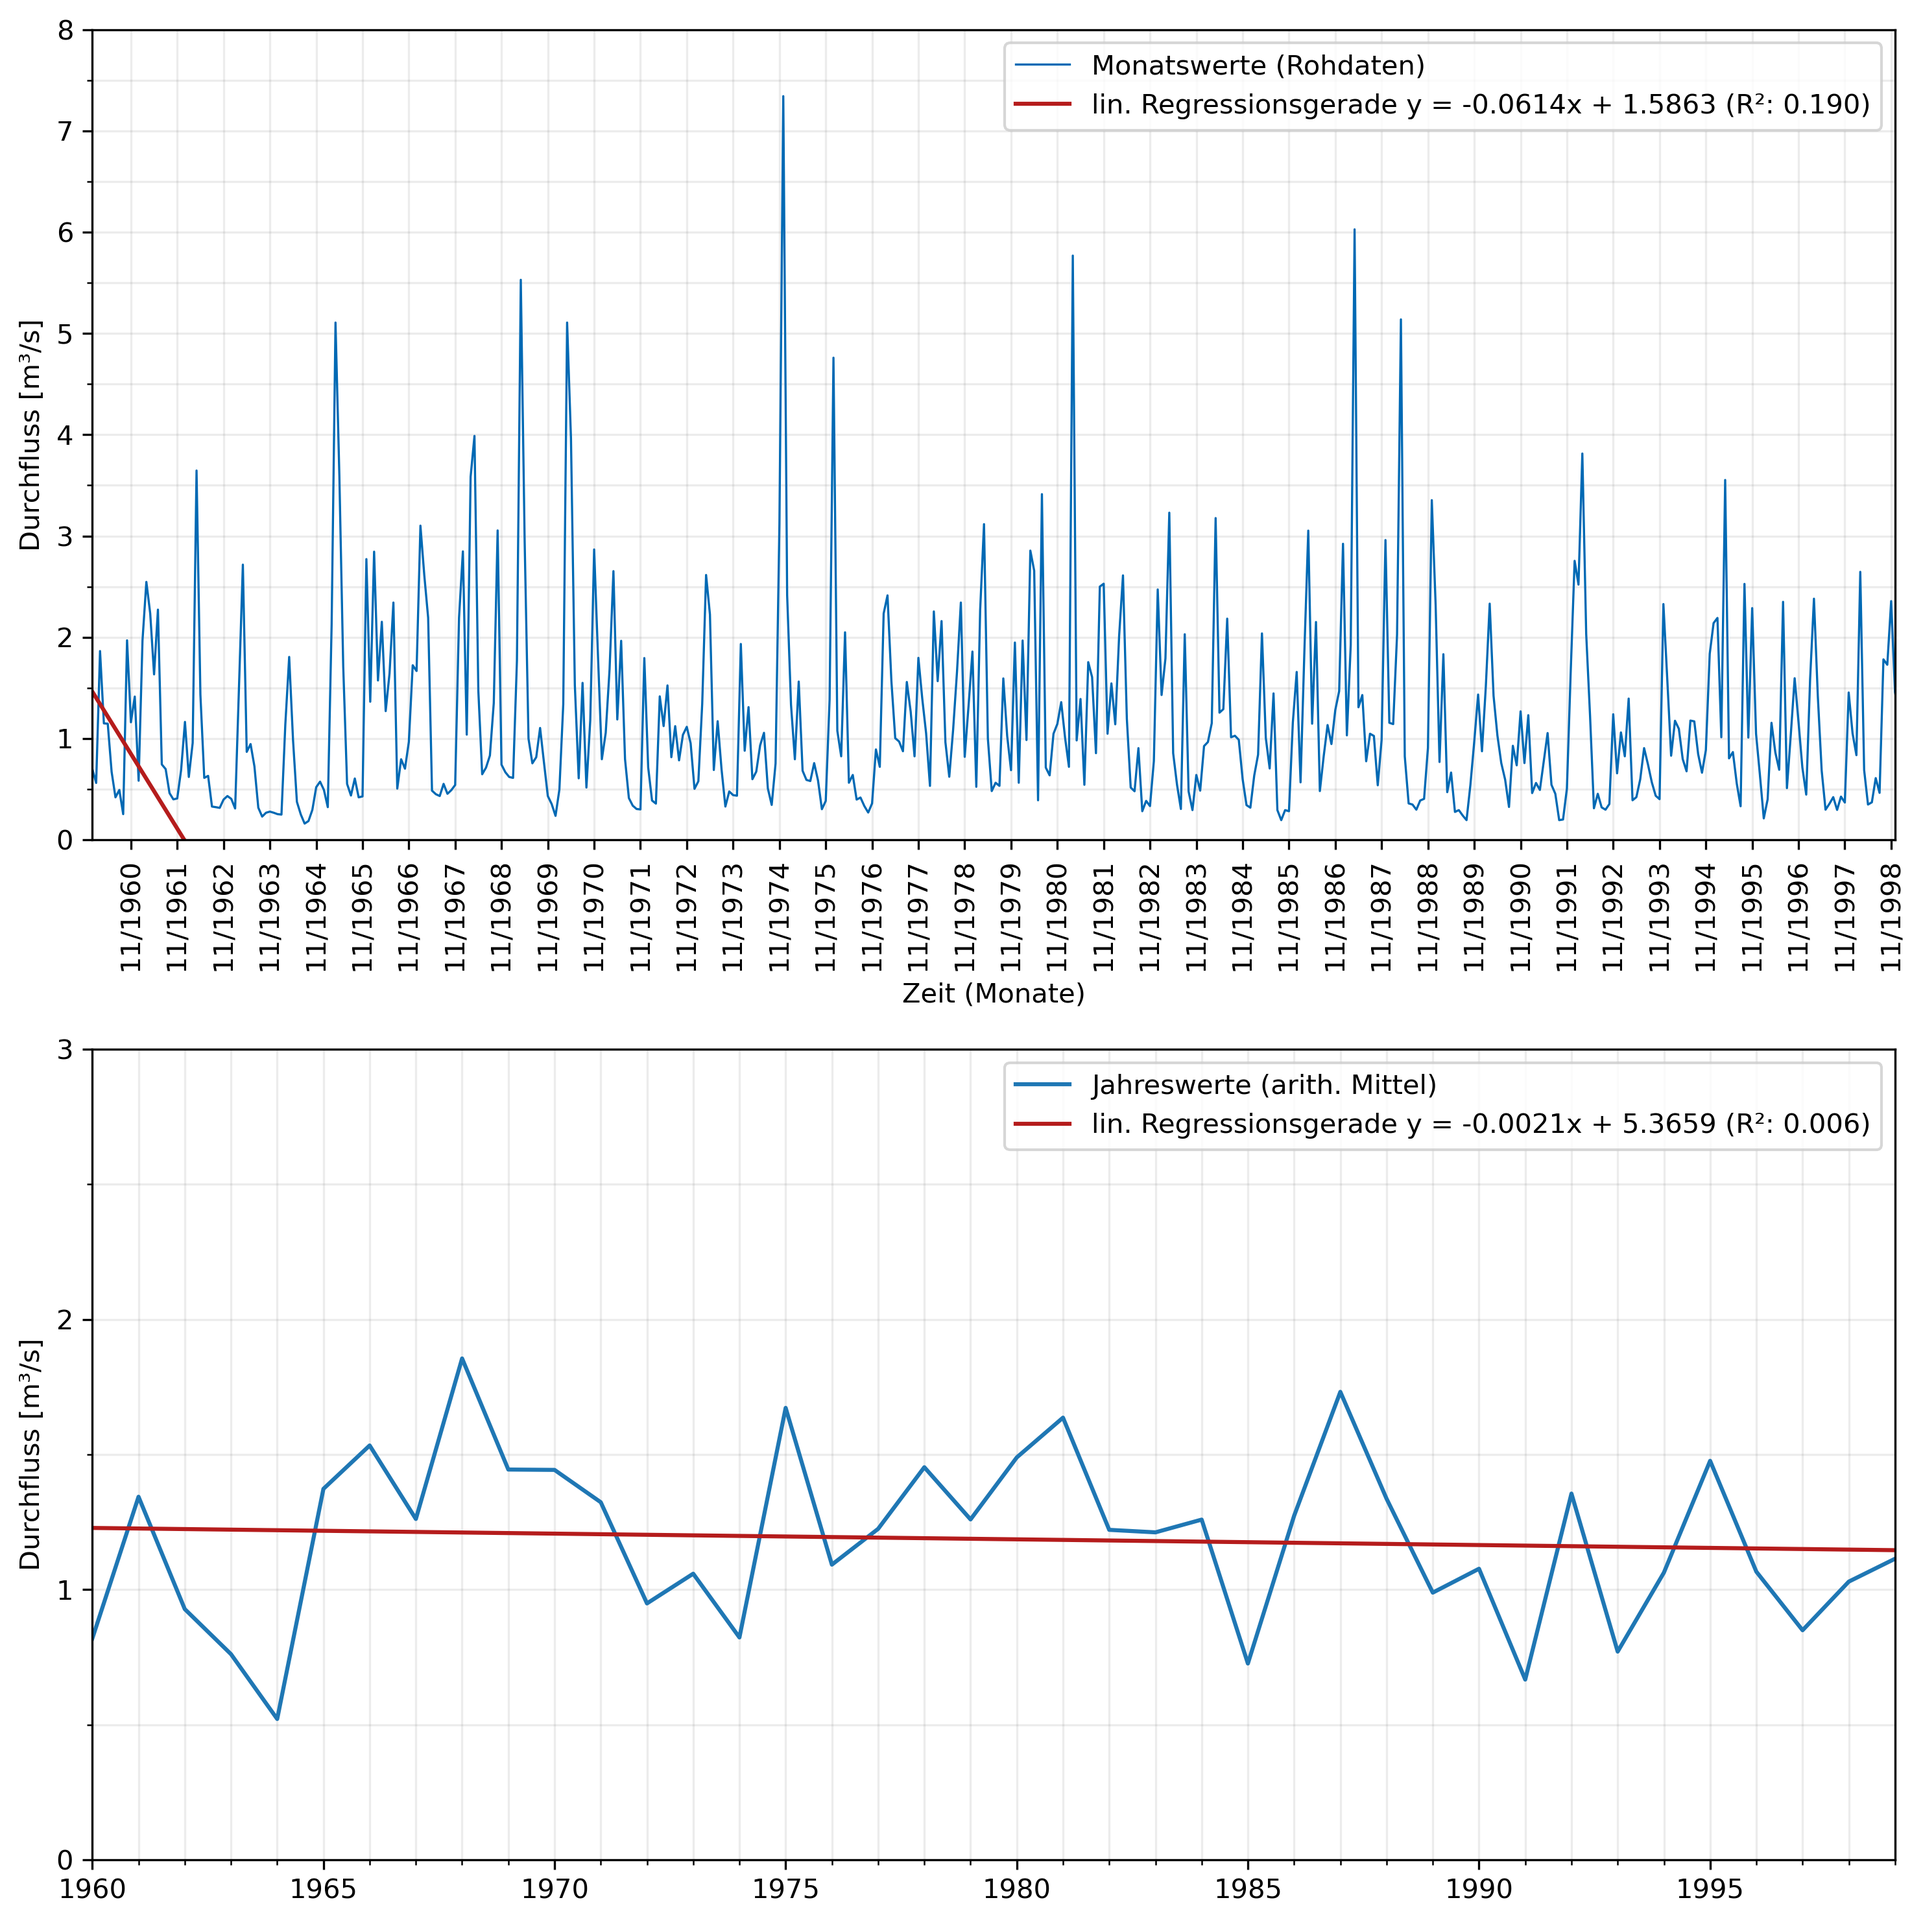
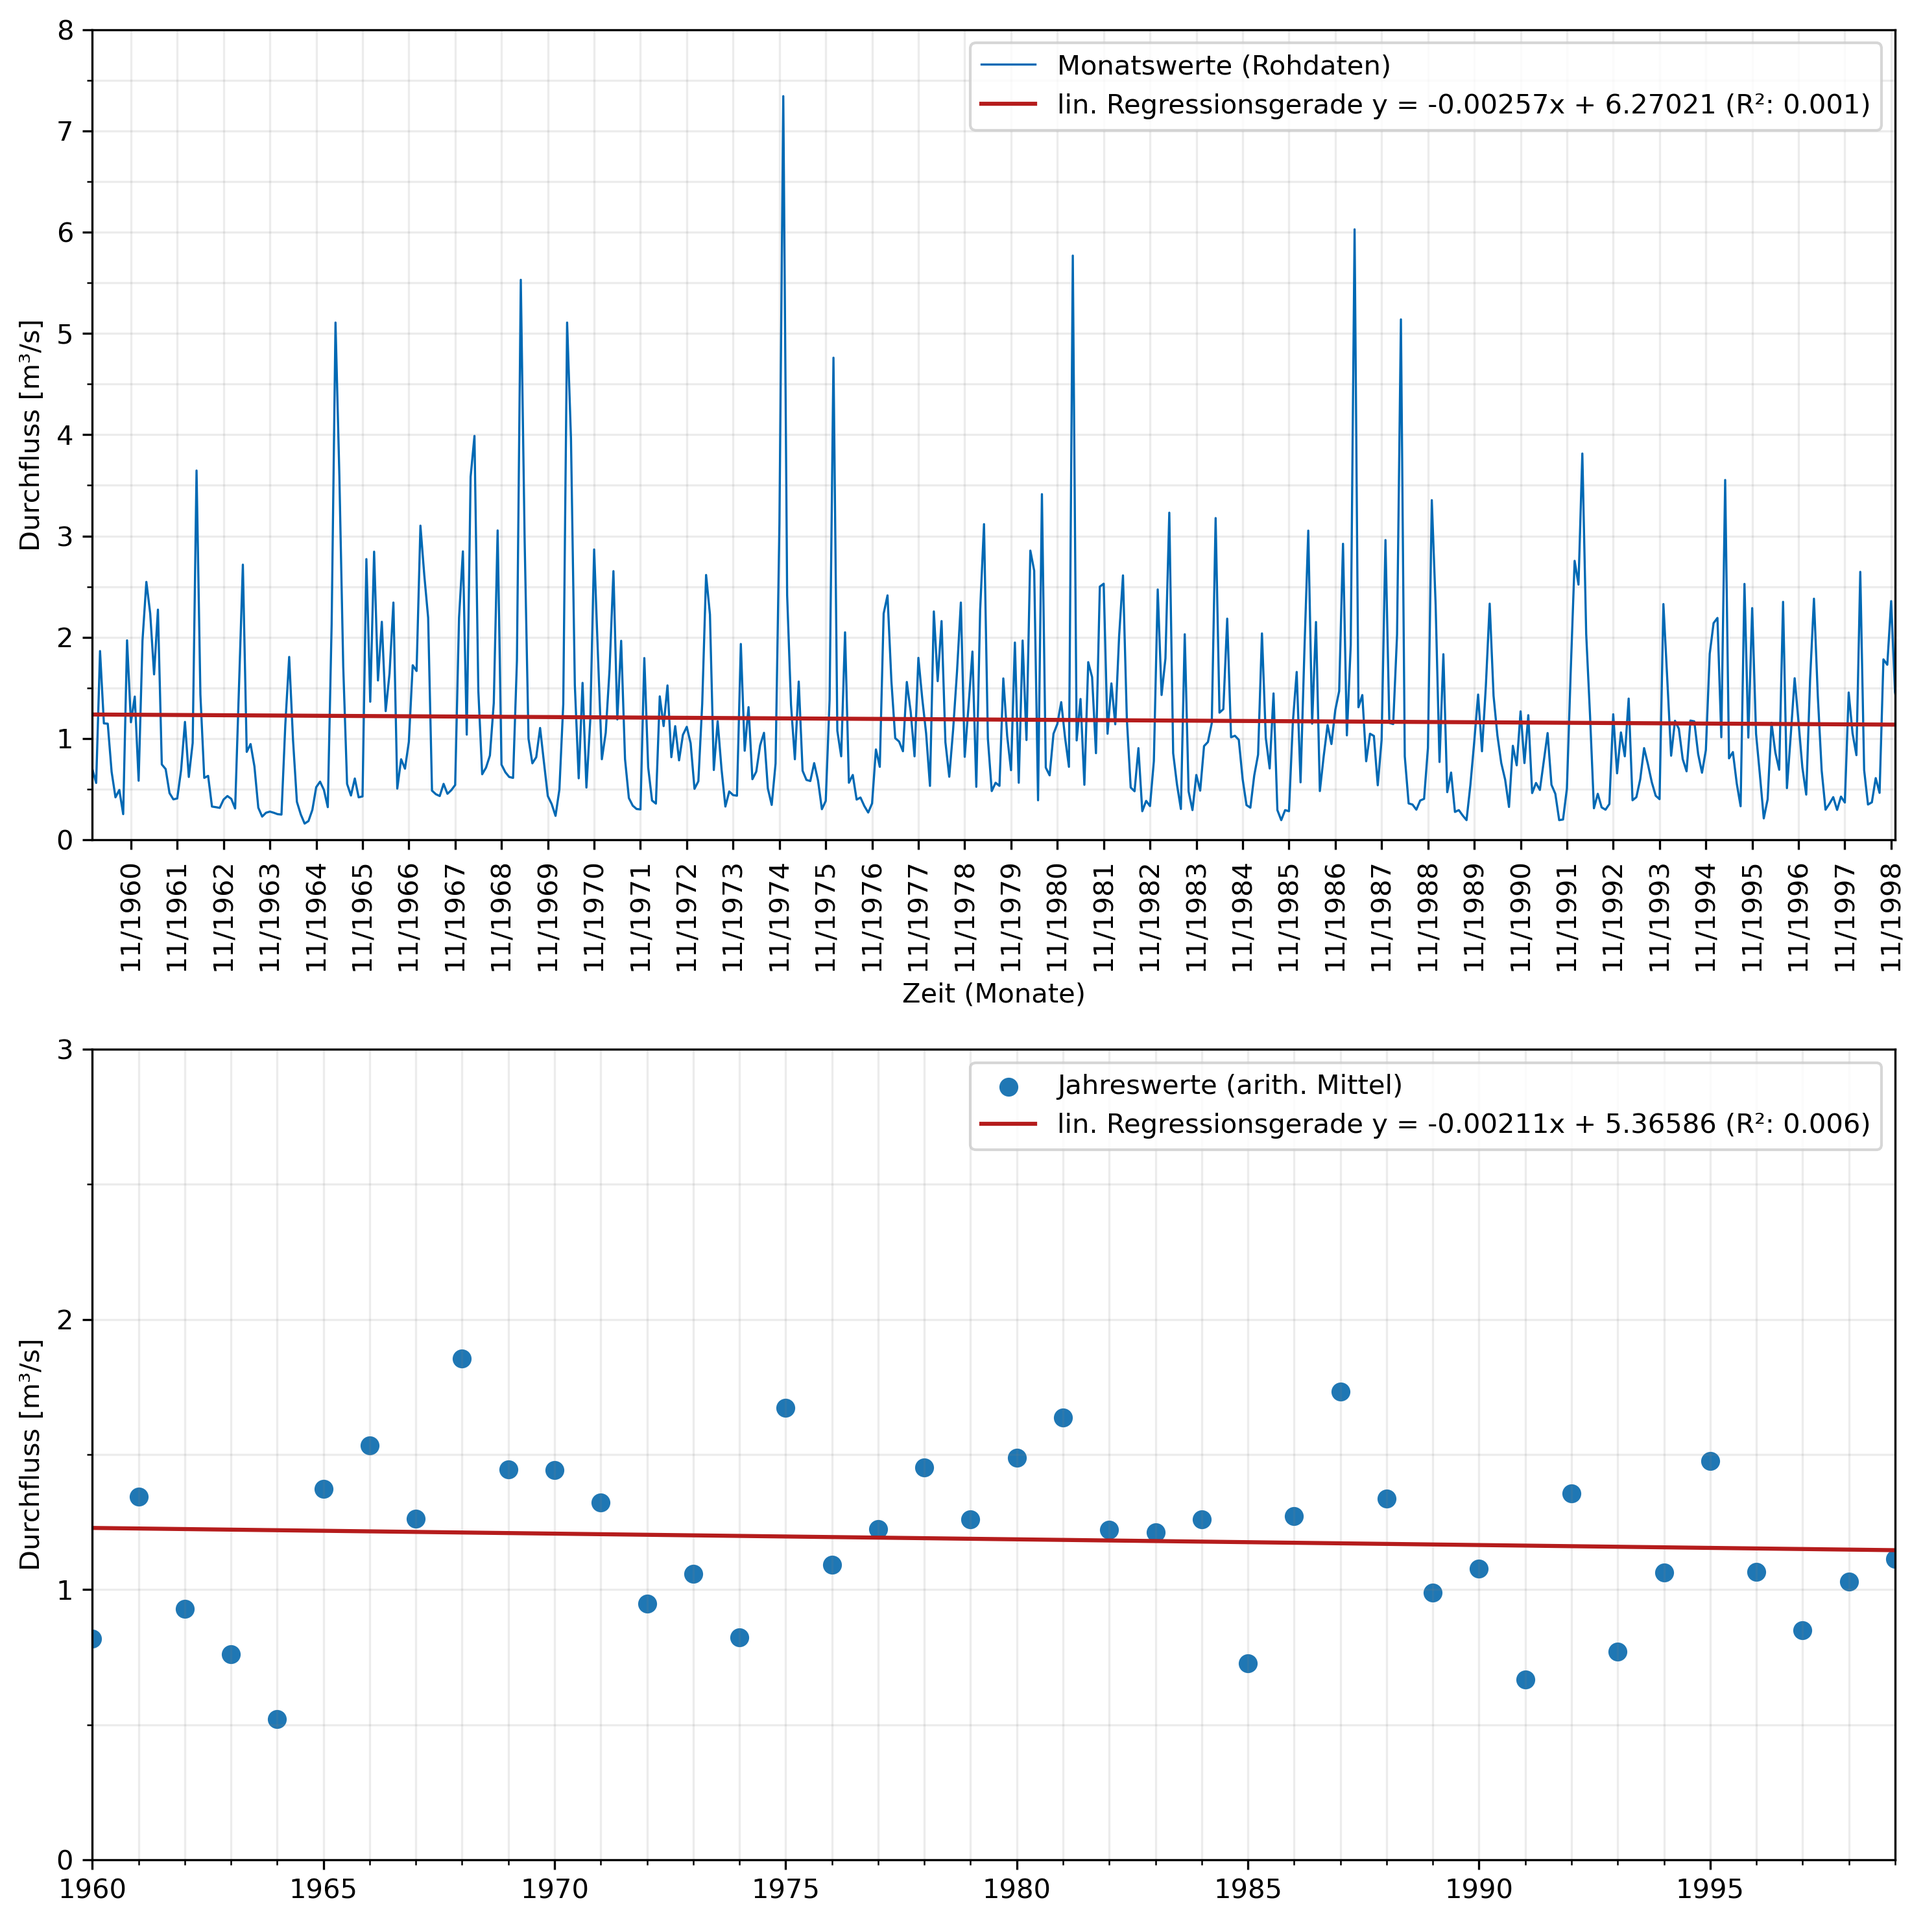
✅ issue2

diff --git a/code/utils/trend_analysis.py b/code/utils/trend_analysis.py
@@ -1,3 +1,4 @@
+import matplotlib.pyplot as plt
 import pandas as pd
 import numpy as np
 import scipy
@@ -6,41 +7,26 @@ from collections import namedtuple
 from utils.binned_stats import mean
 from utils.primary_stats import hyd_years
 
+def __preprocess(df: pd.DataFrame, which: str):
+    if which == "monthly":
+        x = df["Durchfluss_m3s"].tolist()
+        t = np.arange(hyd_years(df)[0], hyd_years(df)[-1]+1, 1/12)
+        n = len(t)
+    elif which == "yearly":
+        x = mean(df, which="yearly")
+        t = np.arange(hyd_years(df)[0], hyd_years(df)[-1]+1, 1)
+        n = len(t)
+    else:
+        raise ValueError("which must be 'monthly' or 'yearly'")
+    
+    return x, t, n
 
 def linreg(df: pd.DataFrame, which: str):
-    """Returns slope, intercept, r, p, std_err of the linear regression model."""
-    if which == "monthly":
-        x = mean(df, which="monthly")
-        t = np.arange(1, len(x)+1, 1)
-    elif which == "yearly":
-        x = mean(df, which="yearly")
-        t = hyd_years(df)
-    else:
-        raise ValueError("which must be 'monthly' or 'yearly'")
-    return scipy.stats.linregress(t, x, alternative="two-sided")
-
-def coeff_of_determination(df: pd.DataFrame, which: str):
-    """Returns the coefficient of determination."""
-    if which == "monthly":
-        _, _, r, _, _ = linreg(df, which="monthly")
-        return r**2
-    elif which == "yearly":
-        _, _, r, _, _ = linreg(df, which="yearly")
-        return r**2
-    else:
-        raise ValueError("which must be 'monthly' or 'yearly'")
-
-def linreg_ab(df: pd.DataFrame, which: str):
-    """Returns slope and intercept of the linear regression model."""
+    """Returns slope, intercept, r, p, std_err of the linear 
+    regression model using scipy.stats.linregress.
     
-    if which == "monthly":
-        x = mean(df, which="monthly")
-        t = np.arange(1, len(x)+1, 1)
-    elif which == "yearly":
-        x = mean(df, which="yearly")
-        t = hyd_years(df)
-    
-    n = len(df)    
+    Alternativ:
+    x, t, n = __preprocess(df, which)
     mean_x = np.mean(x)
     mean_t = np.mean(t)
     sum_xt = sum([x_i * t_i for x_i, t_i in zip(x, t)])
@@ -48,12 +34,15 @@ def linreg_ab(df: pd.DataFrame, which: str):
     slope = (sum_xt - n*mean_x*mean_t) / (sum_t2 - n*mean_t**2)
     intercept = mean_x - slope*mean_t
     Linreg = namedtuple("LineareRegression", ["slope", "intercept"])
-    l = Linreg(slope, intercept)
-    return l
+    return Linreg(slope, intercept)
+    """
 
-def trendtest(df: pd.DataFrame):
-    # TODO: #2 Implement t-test for trend
-    pass
+    x, t, _ = __preprocess(df, which)
+    return scipy.stats.linregress(t, x, alternative="two-sided")
+
+def test_statistic(df: pd.DataFrame, which: str):
+    """Returns test statistic for the trend test with yearly values."""
+    return linreg(df, which=which).slope / linreg(df, which=which).stderr
 
 def detrend_signal(df: pd.DataFrame) -> None:
     """Detrend the time series."""

diff --git a/code/utils/plotting.py b/code/utils/plotting.py
@@ -76,21 +76,26 @@ def plot_trend(df: pd.DataFrame):
     
     fig, (ax1, ax2) = plt.subplots(nrows=2, ncols=1, figsize=(10, 10))
     
-    days = np.arange(1, len(df)+1, 1)
+    years = hyd_years(df)
+    x_yearly = years
+    x_monthly = np. arange(years[0], years[-1]+1, 1/12)
+    
     res_m = linreg(df, which="monthly")
     res_y = linreg(df, which="yearly")
     
     # store regression function in str
-    res_m_func = f"y = {res_m.slope:.4f}x + {res_m.intercept:.4f}"
-    res_y_func = f"y = {res_y.slope:.4f}x + {res_y.intercept:.4f}"
+    res_m_func = f"y = {res_m.slope:.5f}x + {res_m.intercept:.5f}"
+    res_y_func = f"y = {res_y.slope:.5f}x + {res_y.intercept:.5f}"
     
+    # plot monthly trend
     ax1.plot(df["Monat"], df["Durchfluss_m3s"], 
                 c=tu_mediumblue, linewidth=0.8, label="Monatswerte (Rohdaten)")
-    ax1.plot(days, res_m.intercept + res_m.slope*days, c=tu_red, 
+    ax1.plot(df["Monat"], res_m.intercept + res_m.slope*x_monthly, c=tu_red, 
                 label=f"lin. Regressionsgerade {res_m_func} (R²: {res_m.rvalue**2:.3f})")
     
-    ax2.plot(hyd_years(df), mean(df, which="yearly"), label="Jahreswerte (arith. Mittel)")
-    ax2.plot(hyd_years(df), res_y.intercept + res_y.slope*hyd_years(df), c=tu_red,
+    # plot yearly trend
+    ax2.scatter(x_yearly, mean(df, which="yearly"), label="Jahreswerte (arith. Mittel)")
+    ax2.plot(x_yearly, res_y.intercept + res_y.slope*x_yearly, c=tu_red,
                 label=f"lin. Regressionsgerade {res_y_func} (R²: {res_y.rvalue**2:.3f})")
     
     ax1.set_ylim([0,8])
@@ -105,10 +110,10 @@ def plot_trend(df: pd.DataFrame):
         
     ax2.set_ylim([0,3])
     ax2.set_ylabel("Zeit (Jahre)")
-    ax2.set_xticks(hyd_years(df), minor=True)
+    ax2.set_xticks(x_yearly, minor=True)
     ax2.set_yticks(np.arange(0, 3.1, 0.5), minor=True)
     ax2.set_yticks(np.arange(0, 4, 1), minor=False)
-    ax2.set_xlim(left=hyd_years(df)[0], right=hyd_years(df)[-1])
+    ax2.set_xlim(left=x_yearly[0], right=x_yearly[-1])
     ax2.grid(which="major", axis="x", color="grey", alpha=0.15)
     ax2.grid(which="minor", axis="x", color="grey", alpha=0.15)
     ax2.grid(which="major", axis="y", color="grey", alpha=0.15)

diff --git a/code/main.py b/code/main.py
@@ -11,7 +11,7 @@ from utils.primary_stats import sample_number, earliest_date, latest_date, max_v
     kurtosis_biased, kurtosis_unbiased, quartile, iqr
 from utils.hydrological_values import hydro_values
 from utils.consistency_check import missing_values, missing_dates, duplicates
-from utils.trend_analysis import linreg, linreg_ab, coeff_of_determination
+from utils.trend_analysis import linreg, test_statistic
 from utils.plotting import plot_raw, plot_hist, plot_trend, plot_spectrum, plot_sin_waves, plot_saisonfigur
 from utils.fft_analysis import calc_spectrum, get_dominant_frequency
 
@@ -66,10 +66,9 @@ def timeseries_report(df: pd.DataFrame):
     # Trend analysis
     info.loc[len(info)] = ["Lineare Regression (Jahreswerte)", linreg(df, which="yearly"), "-"]
     info.loc[len(info)] = ["Lineare Regression (Monatswerte)", linreg(df, which="monthly"), "-"]
-    info.loc[len(info)] = ["Bestimmtheitsmaß R² (Jahreswerte)", coeff_of_determination(df, which="yearly"), "-"]
-    info.loc[len(info)] = ["Bestimmtheitsmaß R² (Monatswerte)", coeff_of_determination(df, which="monthly"), "-"]
-    info.loc[len(info)] = ["Lineare Regression (Jahreswerte, händisch)", linreg_ab(df, which="yearly"), "-"]
-    info.loc[len(info)] = ["Lineare Regression (Monatswerte, händisch)", linreg_ab(df, which="monthly"), "-"]
+
+    info.loc[len(info)] = ["Teststatistik lin. Regression (Jahreswerte)", np.round(test_statistic(df, which="yearly"), 3), "-"]
+    info.loc[len(info)] = ["Teststatistik lin. Regression (Monatswerte)", np.round(test_statistic(df, which="monthly"), 3), "-"]
     # TODO: #10 Create detrended data
     
     # Seasonal analysis
@@ -86,7 +85,7 @@ def timeseries_report(df: pd.DataFrame):
     check_path(report_path)
     info.to_csv(f"reports/{pegelname}_TSA.csv", index=False)
 
-    print(info)
+    # print(info)
 
 def plotting_agenda(df):
     print("------------------------------------------------------------")
